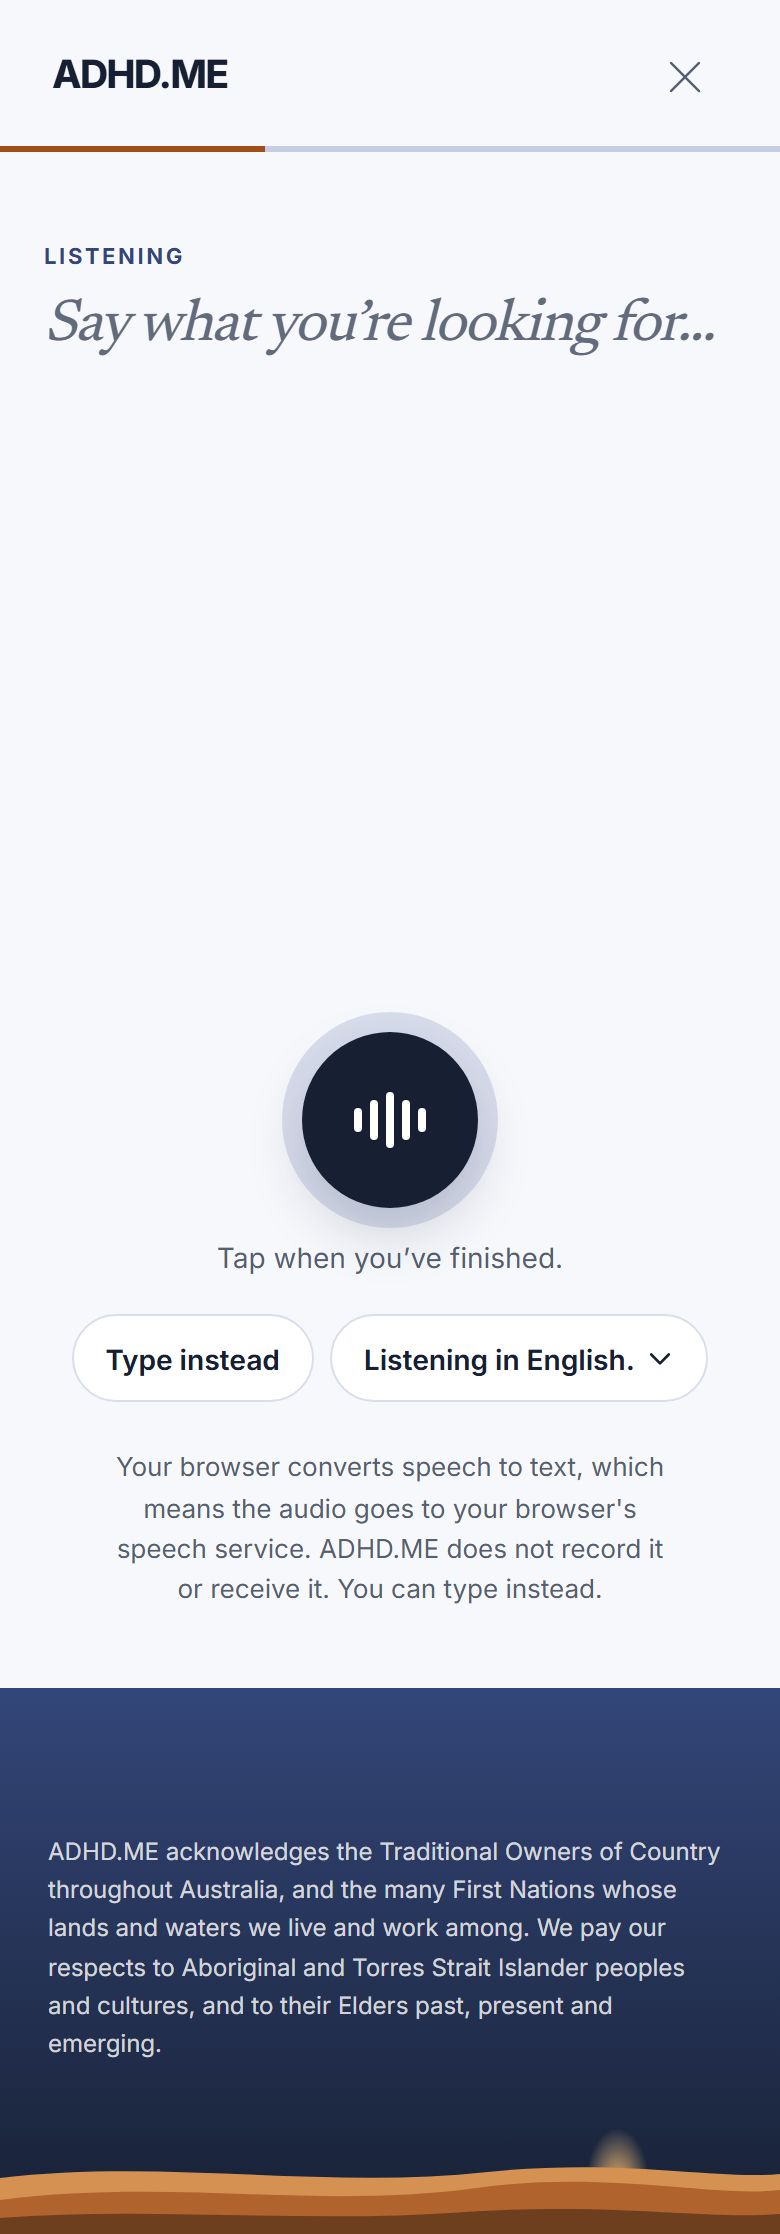
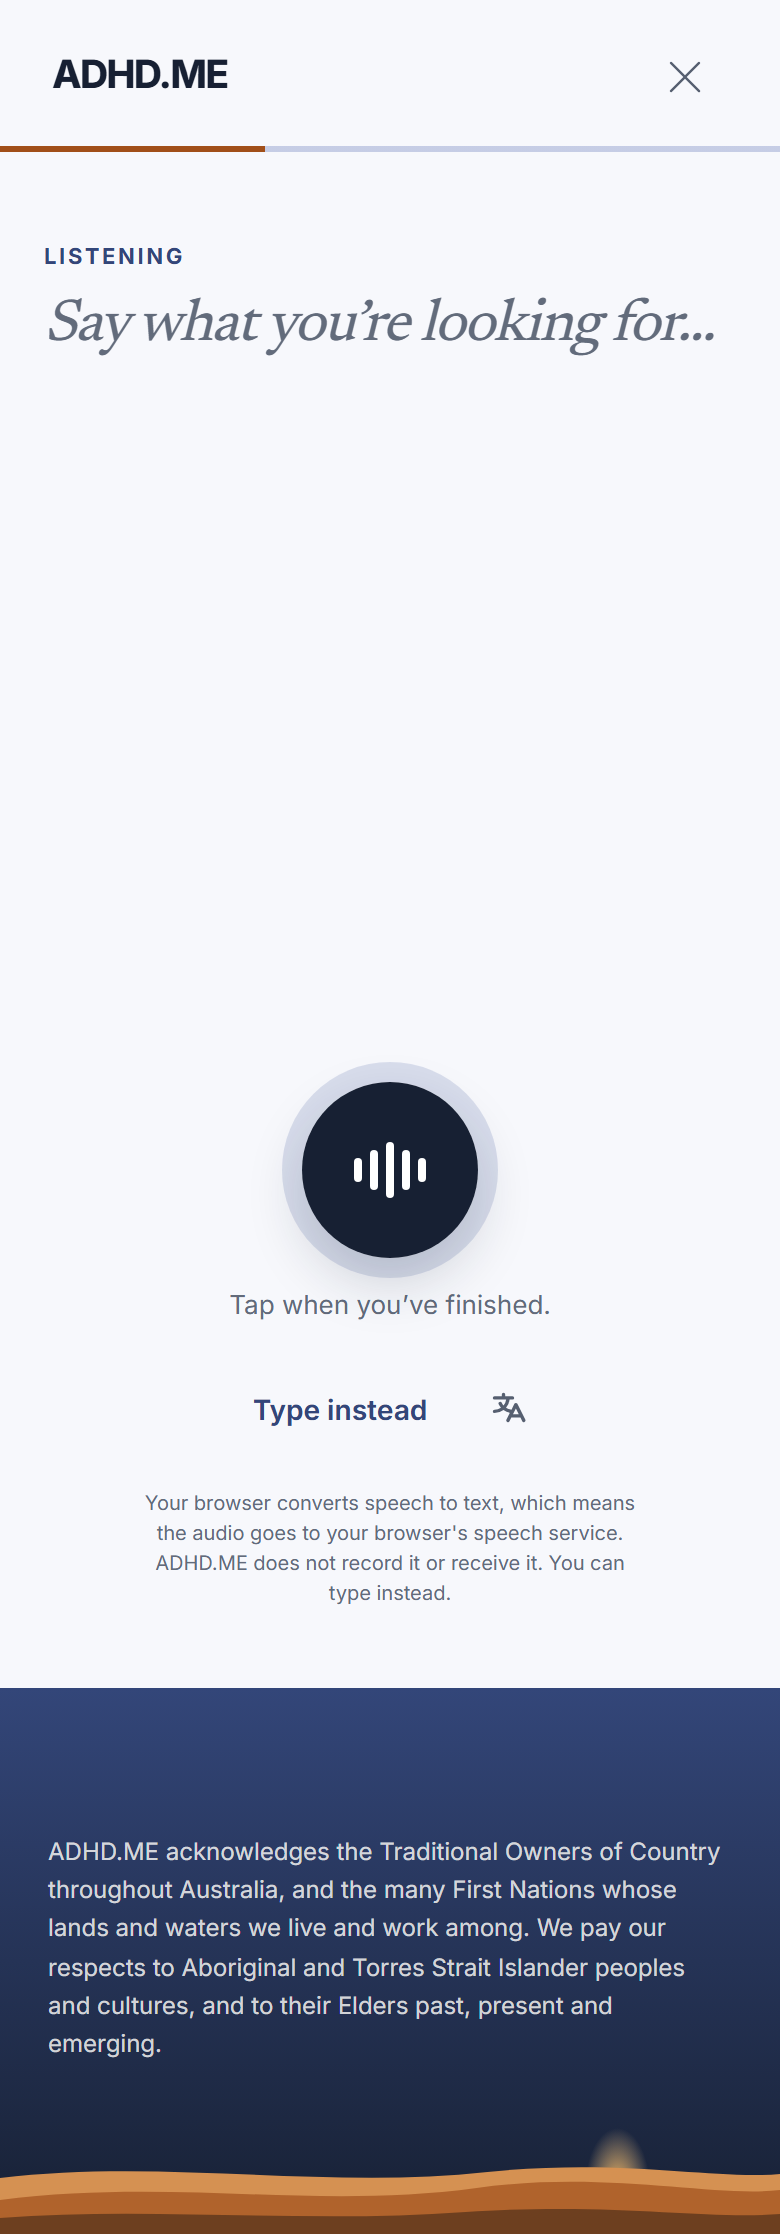
O247 (founder-directed): delete before you shrink — the listening screen loses its language line (a globe opens the sheet), the disclosure is one tiny line; the map sheds its card, caption and chrome; DESIGN.md operationalises minimalism from the research

Changed region(s): [[0.1231, 0.4324, 0.8308, 0.7413]]

diff --git a/app/globals.css b/app/globals.css
@@ -8939,42 +8939,108 @@ button.me-primary { border: 0; font: inherit; font-size: 0.9375rem; font-weight:
 
 .listening-screen .mic-caption { margin: 14px 0 18px; color: var(--muted); font-size: 0.875rem; text-align: center; }
 
-.listen-chips { display: flex; flex-wrap: wrap; justify-content: center; gap: 8px; }
 
-.listen-chip {
-  display: inline-flex;
-  align-items: center;
-  gap: 6px;
-  min-height: 44px;
-  padding: 0 16px;
-  border: 1px solid var(--line);
-  border-radius: 999px;
-  background: var(--surface-raised);
-  color: var(--ink);
-  font: inherit;
-  font-size: 0.875rem;
-  font-weight: 620;
-  cursor: pointer;
-  transition: background var(--dur-tap) var(--ease-ui), border-color var(--dur-tap) var(--ease-ui);
-}
 
-.listen-chip.is-open { border-color: var(--route-strong); }
-.listen-chip:focus-visible { outline: 2px solid var(--accent); outline-offset: 2px; }
-@media (hover: hover) { .listen-chip:hover { background: var(--stone); } }
 
-.listen-lang { display: flex; flex-direction: column; align-items: center; gap: 8px; }
-.listen-lang-choices { display: flex; flex-wrap: wrap; justify-content: center; gap: 8px; margin: 0; padding: 0; list-style: none; }
-.listen-lang-choices .speech-language-choice { margin: 0; padding: 0 14px; text-decoration: none; }
 
 .listening-screen .speech-disclosure { margin-top: 22px; }
 .listening-screen .speech-language-note { margin-top: 14px; }
 
 @media (prefers-reduced-motion: reduce) {
   .mic-bars.is-live span { animation: none; }
-  .listen-chip { transition: none; }
 }
 
 /* O246: the listening screen's two halves — the transcript reads from the top, the control sits
    near the bottom where a thumb is, and the space between them is the space the words grow into. */
 .listen-stage { justify-content: flex-start; margin-top: 0; padding-top: 44px; }
 .patient-v2 .listening-screen .listen-actions { margin-top: auto; margin-bottom: 0; }
+
+
+/* ═══════════════════════════════════════════════════════════════════════════════════════════════
+   O247 — DELETE BEFORE YOU SHRINK; THEN MAKE THE RESIDUE TINY.
+   Listening: transcript, one control, "Type instead" as text, a globe, one tiny line.
+   Map: no card, no caption — the tiles, the markers, two small controls, a tiny credit.
+   ═══════════════════════════════════════════════════════════════════════════════════════════════ */
+
+.listen-tools { display: flex; align-items: center; justify-content: center; gap: 6px; margin-top: 2px; }
+
+.listen-text {
+  display: inline-flex;
+  align-items: center;
+  min-height: 44px;
+  padding: 0 12px;
+  border: 0;
+  border-radius: 10px;
+  background: none;
+  color: var(--route-strong);
+  font: inherit;
+  font-size: 0.875rem;
+  font-weight: 620;
+  cursor: pointer;
+}
+.listen-text:focus-visible { outline: 2px solid var(--accent); outline-offset: 2px; }
+@media (hover: hover) { .listen-text:hover { text-decoration: underline; text-underline-offset: 3px; } }
+
+.listen-globe {
+  display: inline-flex;
+  align-items: center;
+  justify-content: center;
+  width: 44px;
+  height: 44px;
+  border: 0;
+  border-radius: 999px;
+  background: none;
+  color: var(--muted);
+  cursor: pointer;
+}
+.listen-globe:focus-visible { outline: 2px solid var(--accent); outline-offset: 2px; }
+@media (hover: hover) { .listen-globe:hover { color: var(--ink); background: var(--stone); } }
+
+.listen-lang-choices { display: flex; flex-direction: column; gap: 2px; margin: 0; padding: 0; list-style: none; }
+.listen-lang-choice {
+  display: flex;
+  align-items: center;
+  justify-content: space-between;
+  width: 100%;
+  min-height: 52px;
+  padding: 0 4px;
+  border: 0;
+  border-bottom: 1px solid var(--line);
+  background: none;
+  color: var(--ink);
+  font: inherit;
+  font-size: 1rem;
+  font-weight: 560;
+  text-align: left;
+  cursor: pointer;
+}
+.listen-lang-choice.is-current { color: var(--route-strong); font-weight: 700; }
+.listen-lang-choice.is-current::after { content: "\2713"; }
+.listen-lang-choice:focus-visible { outline: 2px solid var(--accent); outline-offset: 2px; border-radius: 8px; }
+.listen-lang-choices li:last-child .listen-lang-choice { border-bottom: 0; }
+
+/* The one line that must stay: tiny, faint, at the bottom, out of the reading path. */
+.listening-screen .speech-disclosure { max-width: 40ch; margin-top: 18px; color: var(--faint); font-size: 0.625rem; line-height: 1.5; }
+.listening-screen .mic-caption { font-size: 0.8125rem; color: var(--faint); }
+
+/* The map, seamless: the tiles are the card. */
+.nearby-map { padding: 0; border: 0; border-radius: 20px; background: var(--stone); box-shadow: 0 1px 2px color-mix(in srgb, var(--hero-dusk) 8%, transparent), 0 12px 32px color-mix(in srgb, var(--hero-dusk) 8%, transparent); }
+.nearby-map-canvas { height: 320px; }
+@media (min-width: 600px) { .nearby-map-canvas { height: 360px; } }
+.nearby-map figcaption { position: absolute; left: 10px; bottom: 10px; z-index: 1000; margin: 0; padding: 0; text-align: left; pointer-events: none; }
+.nearby-map-frame { position: relative; }
+.nearby-caption-main { display: none; }
+.nearby-caption-note {
+  display: inline-block;
+  padding: 4px 8px;
+  border-radius: 999px;
+  background: color-mix(in srgb, var(--surface-raised) 88%, transparent);
+  color: var(--muted);
+  font-size: 0.6875rem;
+  font-weight: 600;
+}
+.nearby-map .leaflet-control-attribution { padding: 2px 6px; font-size: 0.5625rem; border-top-left-radius: 6px; background: color-mix(in srgb, var(--surface-raised) 70%, transparent); }
+.nearby-zoom { top: 8px; right: 8px; gap: 6px; }
+.nearby-zoom-button { border: 0; border-radius: 999px; box-shadow: 0 2px 10px color-mix(in srgb, var(--hero-dusk) 18%, transparent); }
+.nearby-marker-pin { min-width: 26px; height: 26px; font-size: 0.75rem; box-shadow: 0 2px 10px color-mix(in srgb, var(--hero-dusk) 30%, transparent); }
+.nearby-marker-label { font-size: 0.6875rem; }

diff --git a/app/finder-stages/listening-stage.tsx b/app/finder-stages/listening-stage.tsx
@@ -18,11 +18,13 @@
 // So: the h1 is the word "Listening" (the a11y landing line it always was), the transcript is
 // the hero in serif and grows as words arrive, the microphone carries the waveform inside it
 // while it listens and the halo breathes behind it, one caption says what a tap does, and the
-// two secondary actions are chips side by side — "Type instead" and the language, which opens
-// its choices in place. The disclosure stays (voice.spec pins it visible before anything is
-// said), as one faint line. Nothing else is on the screen.
+// two secondary actions are quiet — "Type instead" as a text control and a globe that opens the
+// languages in the app's sheet. O247 (founder-directed): "Listening in English" is gone from the
+// screen altogether; the sentence survives only for screen readers on the globe. The disclosure
+// stays (voice.spec pins it visible before anything is said), as one tiny line. Nothing else is
+// on the screen. The rule applied: delete before you shrink; then make the residue tiny.
 
-import { Microphone, X, CaretDown } from "@phosphor-icons/react";
+import { Microphone, X, Translate } from "@phosphor-icons/react";
 import { motion } from "motion/react";
 import { useState } from "react";
 import {
@@ -34,6 +36,7 @@ import {
 } from "@/voice/speech";
 import { FINDER_ANNOUNCEMENTS, listeningAgainIn } from "@/finder/announce";
 import { MotionScreen, Pressable, StatusLine, Wordmark } from "./shared";
+import { Sheet } from "../sheet";
 
 /**
  * U9: one microphone control — a toggle: `aria-pressed` says it is on, `aria-busy` says the
@@ -70,6 +73,7 @@ export function ListeningStage({
       ? listeningAgainIn(restartedIn.label)
       : FINDER_ANNOUNCEMENTS.listening;
   const [langOpen, setLangOpen] = useState(false);
+  const languageLine = `Listening in ${speechLang.label}.`;
 
   return (
     <MotionScreen key="listening" className="listening-screen" focusOnArrival={focusOnArrival}>
@@ -119,38 +123,38 @@ export function ListeningStage({
         </div>
         <p className="mic-caption">{finishing ? "Finishing…" : "Tap when you’ve finished."}</p>
 
-        <div className="listen-chips">
-          <button className="listen-chip" type="button" onClick={onType}>Type instead</button>
-          {/* O59: the language line, as a chip that opens its choices in place — the
-              alternatives are exactly the languages listed GPs declare. */}
-          <div className="listen-lang" data-testid="speech-language">
-            <button
-              className={langOpen ? "listen-chip is-open" : "listen-chip"}
-              type="button"
-              aria-expanded={langOpen}
-              aria-controls="listen-lang-choices"
-              onClick={() => setLangOpen((o) => !o)}
-            >
-              Listening in {speechLang.label}.
-              <CaretDown size={14} weight="bold" aria-hidden="true" />
-            </button>
-            {langOpen && (
-              <ul id="listen-lang-choices" className="listen-lang-choices" aria-label="Change language">
-                {SPEECH_LANGUAGES.filter((l) => l.tag !== speechLang.tag).map((l) => (
-                  <li key={l.tag}>
-                    <button
-                      className="listen-chip speech-language-choice"
-                      type="button"
-                      lang={l.tag}
-                      onClick={() => { setLangOpen(false); onLanguage(l); }}
-                    >
-                      {l.label}
-                    </button>
-                  </li>
-                ))}
-              </ul>
-            )}
-          </div>
+        <div className="listen-tools">
+          <button className="listen-text" type="button" onClick={onType}>Type instead</button>
+          {/* O59/O247: the language, behind a globe. The sentence is for screen readers and the
+              specs; nothing on the screen says it. Choosing a language restarts listening in it. */}
+          <button
+            className="listen-globe"
+            type="button"
+            data-testid="speech-language"
+            aria-haspopup="dialog"
+            aria-expanded={langOpen}
+            onClick={() => setLangOpen(true)}
+          >
+            <Translate size={18} weight="bold" aria-hidden="true" />
+            <span className="sr-only">{languageLine} Change language</span>
+          </button>
+          <Sheet open={langOpen} title="Change language" onClose={() => setLangOpen(false)}>
+            <ul className="listen-lang-choices" aria-label="Languages">
+              {SPEECH_LANGUAGES.map((l) => (
+                <li key={l.tag}>
+                  <button
+                    className={l.tag === speechLang.tag ? "listen-lang-choice is-current" : "listen-lang-choice speech-language-choice"}
+                    type="button"
+                    lang={l.tag}
+                    aria-current={l.tag === speechLang.tag ? "true" : undefined}
+                    onClick={() => { setLangOpen(false); if (l.tag !== speechLang.tag) onLanguage(l); }}
+                  >
+                    {l.label}
+                  </button>
+                </li>
+              ))}
+            </ul>
+          </Sheet>
         </div>
         {/* The honesty line ships with the picker — see speech.ts. */}
         {speechLang.tag !== DEFAULT_SPEECH_LANGUAGE.tag && (

diff --git a/app/finder-stages/nearby-map.tsx b/app/finder-stages/nearby-map.tsx
@@ -163,6 +163,20 @@ export function NearbyMap({
       </p>
       <div className="nearby-map-frame">
         <div ref={host} className="nearby-map-canvas" role="application" aria-label={`Map around ${origin.suburb}`} />
+        {/* O247: the caption sits on the map as one small chip, and only when it has something to
+            say (a GP not placed); the licence credit is Leaflet's own control, made tiny. */}
+        <figcaption>
+          <span className="nearby-caption-main">
+            {stops.length === 0
+              ? `Nobody on this list has rooms we can place near ${origin.suburb}.`
+              : `Numbers are the rows below.`}
+          </span>
+          {unplaced > 0 && (
+            <span className="nearby-caption-note">
+              {unplaced === 1 ? "1 GP by telehealth first, not placed" : `${unplaced} GPs by telehealth first, not placed`}
+            </span>
+          )}
+        </figcaption>
         <div className="nearby-zoom" role="group" aria-label="Zoom">
           <button type="button" className="nearby-zoom-button" onClick={() => zoomBy(1)} aria-label="Zoom in" disabled={zoom !== null && zoom >= 18}>
             <Plus size={18} weight="bold" aria-hidden="true" />
@@ -172,18 +186,6 @@ export function NearbyMap({
           </button>
         </div>
       </div>
-      <figcaption>
-        <span className="nearby-caption-main">
-          {stops.length === 0
-            ? `Nobody on this list has rooms we can place near ${origin.suburb}.`
-            : `Numbers are the rows below. Map data from OpenStreetMap; the map loads only once you give a suburb.`}
-        </span>
-        {unplaced > 0 && (
-          <span className="nearby-caption-note">
-            {unplaced === 1 ? "1 GP sees people by telehealth first and is not placed." : `${unplaced} GPs see people by telehealth first and are not placed.`}
-          </span>
-        )}
-      </figcaption>
     </figure>
   );
 }

diff --git a/e2e/voice.spec.ts b/e2e/voice.spec.ts
@@ -257,9 +257,10 @@ test("choosing a roster language restarts listening in it, with the honesty line
   await expect(languageLine).toContainText("Listening in English");
   await expect(page.locator(".speech-language-note")).toHaveCount(0);
 
-  // The choices are the roster's own languages, in their own script — behind the chip (O245).
-  await languageLine.getByRole("button", { name: /Listening in English/ }).click();
-  await languageLine.getByRole("button", { name: "हिन्दी" }).click();
+  // The choices are the roster's own languages, in their own script — behind the globe (O247),
+  // in the app's sheet.
+  await languageLine.click();
+  await page.getByRole("dialog", { name: "Change language" }).getByRole("button", { name: "हिन्दी" }).click();
   await expect(page.getByTestId("speech-language")).toContainText("हिन्दी");
 
   // The recogniser was actually restarted in the chosen language — not just relabelled.

diff --git a/e2e/finder-a11y.spec.ts b/e2e/finder-a11y.spec.ts
@@ -95,6 +95,7 @@ for (const reducedMotion of ["reduce", "no-preference"] as const) {
     // the choices open from the language chip first.
     await press(page, /Listening in English/);
     await press(page, "हिन्दी");
+    await expect(page.getByRole("dialog", { name: "Change language" })).toHaveCount(0);
     await expectStage(page, "listening");
     await expect(live(page)).toHaveText("Listening again in हिन्दी.");
     await expect(page.getByTestId("speech-language")).toContainText("Listening in हिन्दी.");

diff --git a/DESIGN.md b/DESIGN.md
@@ -141,6 +141,27 @@ Do not reintroduce isolated console pages. Diagnostic surfaces such as matching,
 interview live inside the same shell. On phones the primary destinations scroll horizontally and
 the workspace map becomes a bounded, vertically scrollable panel.
 
+## Minimalism, operationalised (O247)
+
+Researched after the founder's correction ("you clearly have no idea what minimalism means"):
+Rams' "less, but better", Nielsen Norman on flat design's signifier problem, Apple's clarity and
+deference, and Wispr Flow's invisible-until-needed overlay. The rule this tree now applies to
+every screen, in order:
+
+1. Name the screen's one job and its one primary action. Everything else is demoted — to a text
+   control, an icon, or the sheet — or deleted.
+2. Delete before you shrink. A sentence that explains the UI is a defect in the UI.
+3. Then make the residue tiny and faint: what must legally stay is one line at 0.625–0.7rem in
+   `--faint`, at the bottom, out of the reading path.
+4. Whitespace and tint do the grouping, not hairlines and boxes. Cards only for discrete objects.
+5. The one primary control still looks pressable (filled, 44px); text controls still read as
+   controls. Outline buttons are for secondary actions, and few.
+6. Type does the hierarchy: one display serif statement, one body size, one tiny residue size.
+7. Motion carries meaning only, with a static equal.
+8. Secondary tools live behind one icon and open in the app's one sheet idiom.
+
+If more than three elements survive above the fold besides the content itself, it is not minimal.
+
 ## Interaction and motion
 
 Motion follows a Jakub-primary / Emil-secondary standard: spatial continuity first, polish
